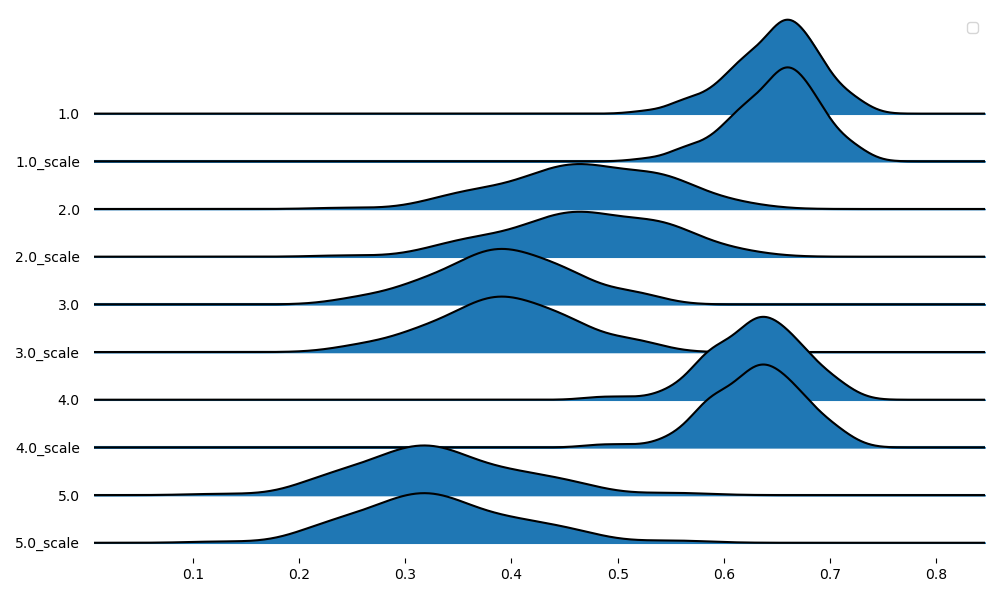
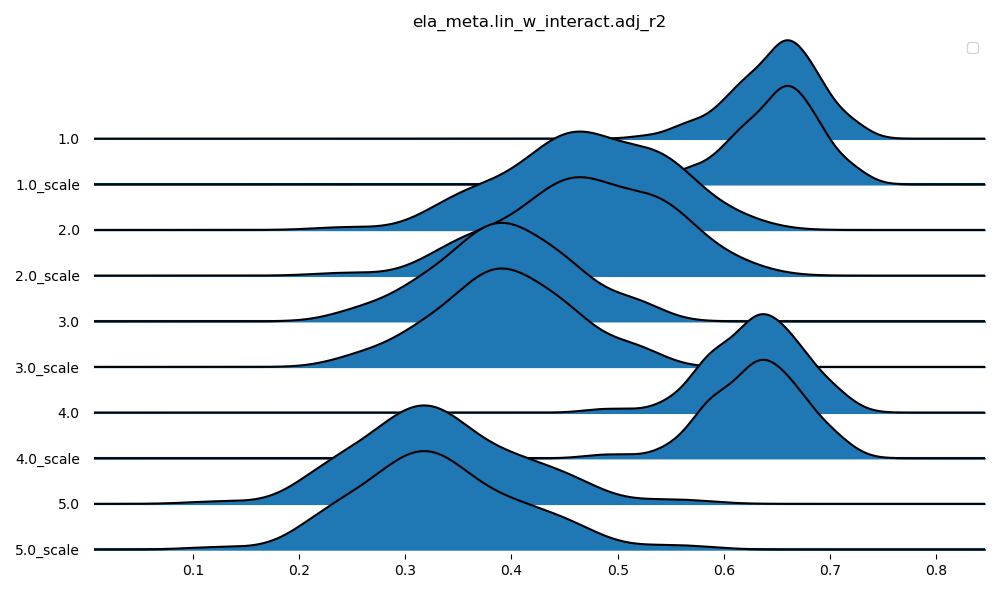
add tittle

Changed region(s): [[0.0, 0.03, 0.992, 0.96], [0.403, 0.03, 0.682, 0.06], [0.713, 0.63, 0.744, 0.66]]

diff --git a/scripts/landscape.py b/scripts/landscape.py
@@ -80,12 +80,13 @@ for i in range(10):
 df = pd.DataFrame(pd_data, columns=ela_meta_keys+["problem_id"])
 print(df)
 # Draw Plot
+n = 5
 joypy.joyplot(df,
-              column=[ela_meta_keys[5]],
+              column=[ela_meta_keys[n]],
               by="problem_id",
-              #   ylim='own',
+              ylim='own',
               #   color=["#1f77b4d0"],
-              #   title="Distribution of inplace sorting time consuming, $N=10000$.",
+              title=ela_meta_keys[n],
               figsize=(10, 6))
 # rect1 = plt.Rectangle((0, 0), 0, 0, color='#1f77b4d0',
 #                       label=ela_meta_keys[0])
